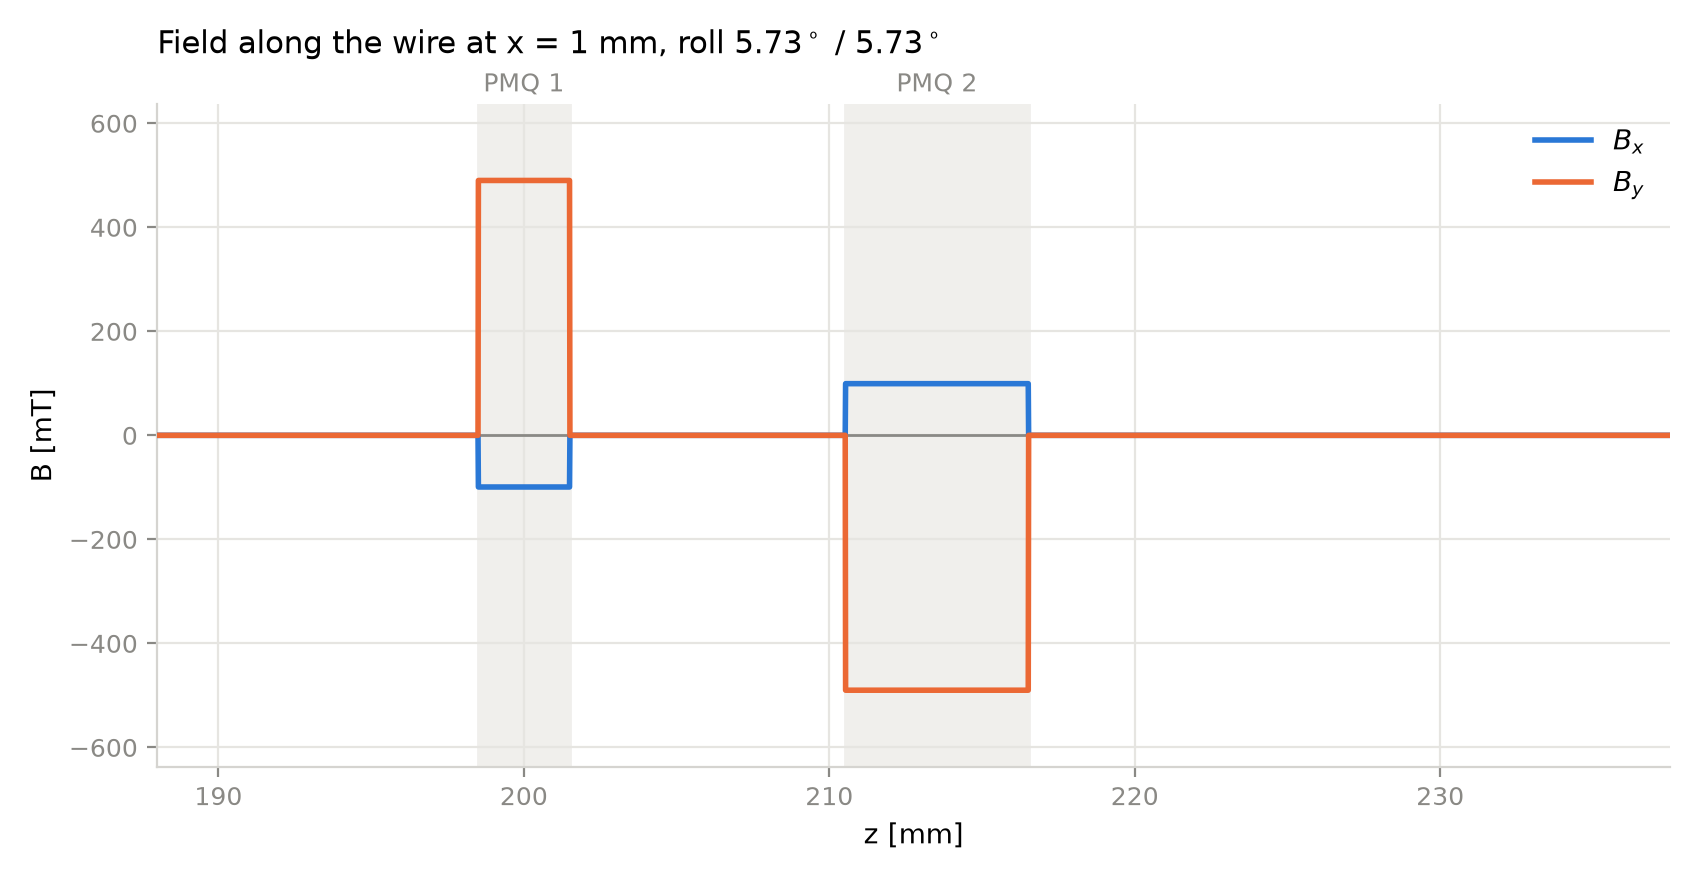
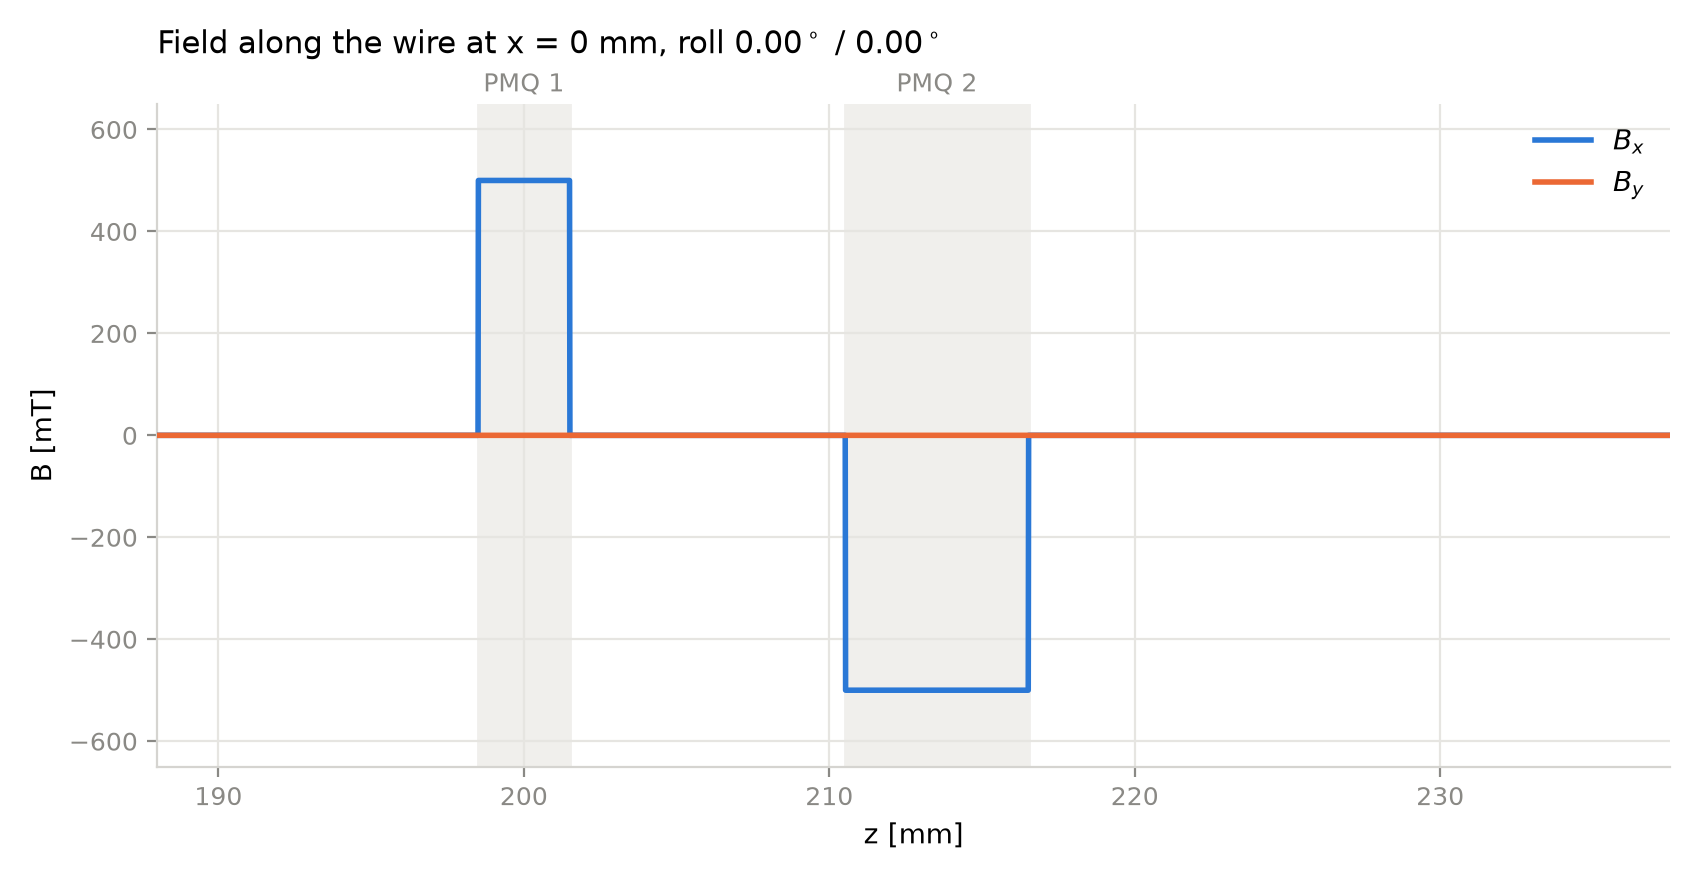
example rolls

diff --git a/example_roll_angle.py b/example_roll_angle.py
@@ -1,0 +1,154 @@
+"""Worked example: what a roll angle does to the quadrupole field profile.
+
+A roll is a rotation of the magnet about the z (beam) axis.  Because the field
+is a quadrupole, a mechanical roll of theta rotates the whole field *pattern* by
+2*theta.  The leading-order lab field for a wire at (x, y) with the magnet
+on-axis is
+
+    Bx = G(z) [ -sin(2 theta) x + cos(2 theta) y ]
+    By = G(z) [  cos(2 theta) x + sin(2 theta) y ]
+
+Two things follow, and this script shows both:
+
+  A.  Along a wire at fixed (x, y) the By trace scales as cos(2 theta) while a
+      Bx trace grows as sin(2 theta).  The magnet is progressively turned from a
+      *normal* quadrupole into a *skew* one; at 45 deg it is purely skew.
+
+  B.  The transverse field magnitude |Bt| = |G| sqrt(x^2 + y^2) at any point is
+      independent of theta -- the roll only turns the field, it does not weaken
+      it.  The normal and skew integrated gradients trace out cos(2 theta) and
+      sin(2 theta), summing in quadrature to a constant.
+
+Run:  python example_roll_angle.py
+"""
+
+import matplotlib.pyplot as plt
+import numpy as np
+
+from field import PMQ
+from integrals import b_along_wire, field_integral, integrated_gradient
+
+# --- Magnet parameters ------------------------------------------------------
+G0 = 500.0       # peak gradient [T/m]
+LMAG = 0.02      # magnet length [m]
+FRINGE = 0.15    # tanh fringe scale as a fraction of LMAG
+
+# Wire held off-axis so the quadrupole shows a profile at all (on the axis a
+# quadrupole field is identically zero).  On the x axis, By reads the normal
+# response and Bx reads the skew response directly.
+X_PROBE = 1e-3
+Y_PROBE = 0.0
+
+ROLLS_DEG = (0.0, 22.5, 45.0)     # traces to draw in panel A
+
+# Categorical slots 1-3 from the validated reference palette.
+SERIES = ["#2a78d6", "#eb6834", "#1baf7a"]
+INK = "#0b0b0b"
+MUTED = "#8a8985"
+
+
+def main():
+    quad = PMQ(G0, LMAG, profile="tanh", d=FRINGE)
+    gl = integrated_gradient(quad)  # int G dz = G0 * L_eff
+
+    print(f"\nPMQ:  G0 = {G0} T/m, L = {LMAG * 1e3:.1f} mm, tanh fringe d = {FRINGE}")
+    print(f"  integrated gradient   int G dz = {gl:.4f} T")
+    print(f"  wire at (x, y) = ({X_PROBE * 1e3:g}, {Y_PROBE * 1e3:g}) mm\n")
+    print("  roll     int By dz / x   int Bx dz / x     quadrature")
+    print("  [deg]      (normal)         (skew)          [T]")
+    for deg in (0.0, 15.0, 30.0, 45.0, 60.0, 75.0, 90.0):
+        quad.theta = np.deg2rad(deg)
+        ix, iy = field_integral(quad, x=X_PROBE, y=Y_PROBE)
+        normal, skew = iy / X_PROBE, ix / X_PROBE
+        print(f"  {deg:5.1f}   {normal:+10.4f}     {skew:+10.4f}      "
+              f"{np.hypot(normal, skew):8.4f}")
+    quad.theta = 0.0
+    print()
+
+    fig, (ax_a, ax_b) = plt.subplots(1, 2, figsize=(11, 4.2))
+
+    # --- Panel A: field along the wire at several roll angles ---------------
+    ax_a.axhline(0.0, color=MUTED, lw=1.0, zorder=1)
+    for color, deg in zip(SERIES, ROLLS_DEG):
+        quad.theta = np.deg2rad(deg)
+        z, bx, by, _ = b_along_wire(quad, x=X_PROBE, y=Y_PROBE, n=2001)
+        ax_a.plot(z * 1e3, by * 1e3, color=color, lw=2.0, zorder=3)
+        ax_a.plot(z * 1e3, bx * 1e3, color=color, lw=2.0, ls="--", zorder=3)
+        i = np.argmax(np.abs(by) + np.abs(bx))
+        ax_a.annotate(
+            f"{deg:g}°",
+            xy=(z[i] * 1e3, max(by[i], bx[i]) * 1e3),
+            xytext=(3, 3),
+            textcoords="offset points",
+            fontsize=9,
+            color=color,
+            va="bottom",
+        )
+    quad.theta = 0.0
+
+    ax_a.annotate(
+        "solid $B_y$ (normal) · dashed $B_x$ (skew)",
+        xy=(0.03, 0.05), xycoords="axes fraction", fontsize=8.5, color=MUTED,
+    )
+    ax_a.set_xlabel("z [mm]")
+    ax_a.set_ylabel(r"$B$ along the wire [mT]")
+    ax_a.set_title("A.  Roll swaps $B_y$ into $B_x$", loc="left", fontsize=11)
+    ax_a.set_xlim(-2 * LMAG * 1e3, 2 * LMAG * 1e3)
+    ax_a.margins(y=0.18)
+    _recede(ax_a)
+
+    # --- Panel B: normal / skew integrated gradient vs roll -----------------
+    rolls = np.linspace(0.0, 90.0, 91)
+    normal = np.empty_like(rolls)
+    skew = np.empty_like(rolls)
+    for i, deg in enumerate(rolls):
+        quad.theta = np.deg2rad(deg)
+        ix, iy = field_integral(quad, x=X_PROBE, y=Y_PROBE)
+        normal[i] = iy / X_PROBE
+        skew[i] = ix / X_PROBE
+    quad.theta = 0.0
+
+    ax_b.axhline(0.0, color=MUTED, lw=1.0, zorder=1)
+    ax_b.plot(rolls, normal, color=SERIES[0], lw=2.0, zorder=3,
+              label=r"normal  $\int B_y\,dz/x \;=\; \int G\,dz\,\cos 2\theta$")
+    ax_b.plot(rolls, skew, color=SERIES[1], lw=2.0, zorder=3,
+              label=r"skew  $\int B_x\,dz/x \;=\; -\int G\,dz\,\sin 2\theta$")
+    ax_b.plot(rolls, np.hypot(normal, skew), color=MUTED, lw=1.5, ls=":",
+              zorder=2, label=r"quadrature $=\int G\,dz$ (constant)")
+
+    ax_b.axvline(45.0, color=MUTED, lw=1.0, ls="--", zorder=1)
+    ax_b.annotate(
+        "45° — pure skew,\nnormal null",
+        xy=(45.0, 0.0), xytext=(46, 2.0),
+        fontsize=8.5, color=INK, va="bottom",
+    )
+    ax_b.set_xlabel("roll angle θ [deg]")
+    ax_b.set_ylabel(r"integrated gradient [T]")
+    ax_b.set_title("B.  Strength conserved, split by $2\\theta$", loc="left", fontsize=11)
+    ax_b.set_xlim(0, 90)
+    ax_b.set_xticks([0, 22.5, 45, 67.5, 90])
+    ax_b.legend(frameon=False, fontsize=8.5, loc="lower left")
+    _recede(ax_b)
+
+    fig.tight_layout()
+    fig.savefig("roll_angle.png", dpi=200)
+    print("wrote roll_angle.png")
+    plt.show()
+
+
+def _recede(ax):
+    """Push the grid and frame into the background where they belong."""
+    ax.grid(True, color="#e6e5e1", lw=0.8, zorder=0)
+    ax.set_axisbelow(True)
+    for side in ("top", "right"):
+        ax.spines[side].set_visible(False)
+    for side in ("left", "bottom"):
+        ax.spines[side].set_color("#d5d4d0")
+    ax.tick_params(colors=MUTED, labelsize=9)
+    ax.xaxis.label.set_color(INK)
+    ax.yaxis.label.set_color(INK)
+    ax.title.set_color(INK)
+
+
+if __name__ == "__main__":
+    main()

diff --git a/example_roll_scan.py b/example_roll_scan.py
@@ -17,7 +17,7 @@ G1 = 500
 L1 = 0.003
 Z1 = 0.2
 P1 = 'hard'
-THETA1 = 0.1
+THETA1 = 0
 
 L_sep = 0.013523
 
@@ -27,7 +27,7 @@ G2 = -500
 L2 = 0.006
 Z2 = Z1 + L_sep
 P2 = 'hard'
-THETA2 = 0.1
+THETA2 = 0
 
 lat = Lattice([PMQ(G1, L1, Z1, P1, theta=THETA1), PMQ(G2, L2, Z2, P2, theta=THETA2)])
 
@@ -35,8 +35,8 @@ lat = Lattice([PMQ(G1, L1, Z1, P1, theta=THETA1), PMQ(G2, L2, Z2, P2, theta=THET
 # A quadrupole field is identically zero on its own axis, so probing at
 # (0, 0) returns Bx = By = 0 everywhere.  To see a profile at all the wire must
 # be off-axis -- either move the probe (below) or give the magnets dx/dy.
-X_PROBE = 1e-3   # [m] wire position relative to the magnetic centers
-Y_PROBE = 0.0
+X_PROBE = 0   # [m] wire position relative to the magnetic centers
+Y_PROBE = 1e-3
 
 # 'hard' has no ordinary derivatives, so only the leading-order field exists
 # for it.  order=2 would raise.  Switch P1/P2 to 'tanh' to use the full model.
